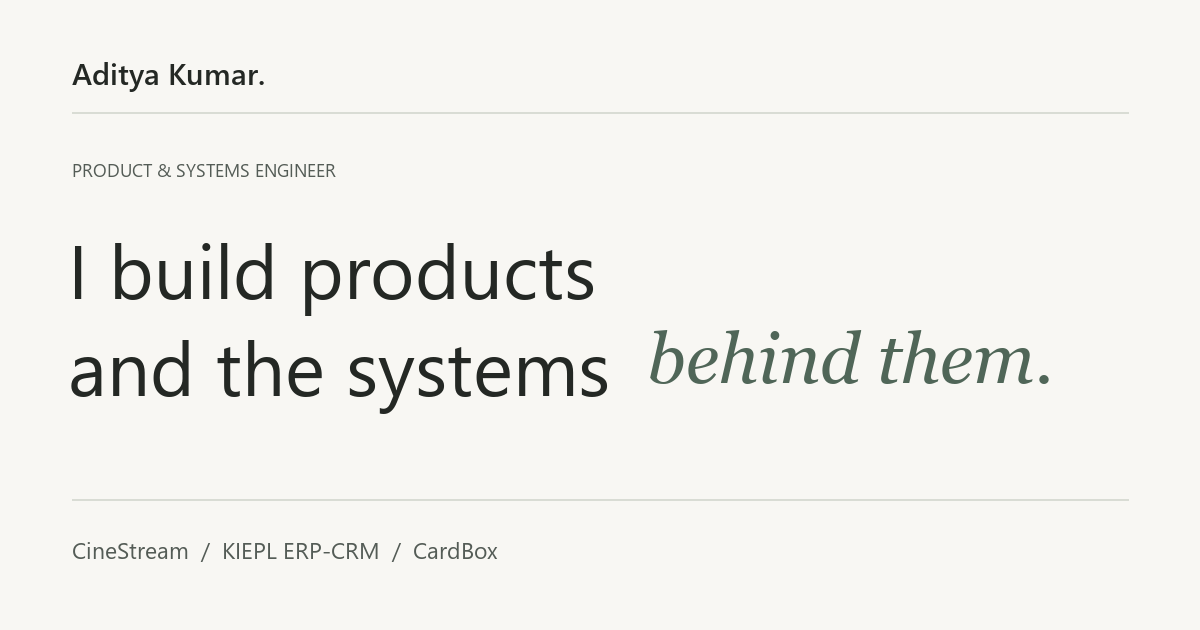
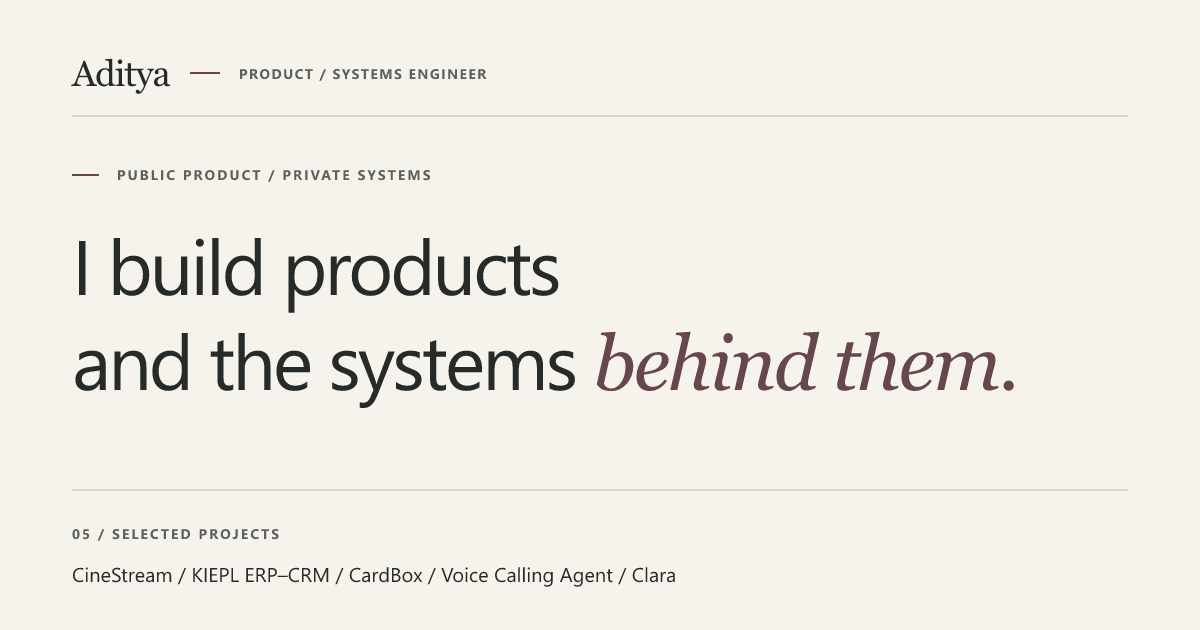
Refresh portfolio identity and sharing card

diff --git a/src/index.css b/src/index.css
@@ -1,15 +1,15 @@
 :root {
   font-family: 'Portfolio Sans', 'Segoe UI', sans-serif;
-  color: #242824;
-  background: #f8f7f3;
+  color: #262b2a;
+  background: #f6f3ec;
   font-synthesis: none;
   text-rendering: optimizeLegibility;
   -webkit-font-smoothing: antialiased;
-  --paper: #f8f7f3;
-  --ink: #242824;
-  --muted: #626761;
-  --line: #d9dcd4;
-  --accent: #365d73;
+  --paper: #f6f3ec;
+  --ink: #262b2a;
+  --muted: #5b615d;
+  --line: #d8d7d1;
+  --accent: #67464e;
   --serif: Georgia, 'Times New Roman', serif;
 }
 @font-face {
@@ -26,20 +26,21 @@ a { color: inherit; text-decoration: none; }
 button, a, summary { -webkit-tap-highlight-color: transparent; }
 a, summary { touch-action: manipulation; }
 a:focus-visible, summary:focus-visible { outline: 2px solid var(--accent); outline-offset: 5px; border-radius: 2px; }
-::selection { background: #dbe5e7; color: var(--ink); }
+::selection { background: var(--accent); color: var(--paper); }
 img { display: block; max-width: 100%; height: auto; }
 p, h1, h2, h3, h4, figure, dl, dd { margin: 0; }
 h1, h2, h3 { font-weight: 500; }
-em { font-family: var(--serif); font-weight: 400; }
 .container { width: min(100% - 96px, 1140px); margin-inline: auto; }
 .arrow { flex-shrink: 0; }
 .skip-link { position: fixed; top: 12px; left: 16px; z-index: 10; padding: 12px 18px; background: var(--ink); color: white; transform: translateY(-160%); }
 .skip-link:focus { transform: translateY(0); }
 .site-header { position: sticky; top: 0; z-index: 5; background: var(--paper); }
-.header-inner { min-height: 86px; display: flex; align-items: center; justify-content: space-between; border-bottom: 1px solid var(--line); }
-.wordmark { font-size: 20px; letter-spacing: -.6px; font-weight: 600; display: inline-flex; align-items: center; min-height: 44px; }
-.wordmark-dot { color: var(--accent); }
-.site-nav { display: flex; gap: 32px; }
+.header-inner { min-height: 86px; display: flex; align-items: center; justify-content: space-between; gap: 20px; border-bottom: 1px solid var(--line); }
+.brand-lockup { display: flex; align-items: center; gap: 14px; min-width: 0; }
+.wordmark { font-family: var(--serif); font-size: 27px; letter-spacing: -1.3px; font-weight: 400; display: inline-flex; align-items: center; min-height: 44px; }
+.brand-rule { width: 24px; height: 1px; background: var(--accent); flex: 0 0 auto; }
+.brand-role { font-size: 9px; line-height: 1.4; letter-spacing: 1.05px; text-transform: uppercase; font-weight: 600; color: var(--muted); white-space: nowrap; }
+.site-nav { display: flex; flex-shrink: 0; gap: 32px; white-space: nowrap; }
 .site-nav a { display: inline-flex; gap: 6px; align-items: center; min-height: 44px; font-size: 13px; }
 .site-nav a:hover, .text-link:hover, .hero-note a:hover, .site-footer a:hover { color: var(--accent); }
 .hero { padding-block: 70px 74px; }
@@ -47,13 +48,13 @@ em { font-family: var(--serif); font-weight: 400; }
 .eyebrow { display: flex; gap: 12px; align-items: center; }
 .small-rule { width: 25px; height: 1px; background: var(--accent); }
 h1 { font-size: clamp(48px, 5.2vw, 74px); letter-spacing: -2.7px; line-height: 1.12; margin-top: 26px; }
-h1 em { color: #506658; letter-spacing: -3px; }
+.hero-signature { margin-left: .12em; font-family: var(--serif); font-style: italic; font-weight: 400; color: var(--accent); letter-spacing: -.055em; white-space: nowrap; }
 .mobile-break { display: none; }
 .hero-bottom { display: grid; grid-template-columns: 1.6fr 1fr; gap: 96px; align-items: end; margin-top: 32px; }
 .hero-description { max-width: 570px; font-size: 17px; line-height: 1.8; color: var(--muted); }
 .hero-actions { display: flex; align-items: center; gap: 28px; flex-wrap: wrap; margin-top: 27px; }
 .button { display: inline-flex; align-items: center; justify-content: center; gap: 24px; min-height: 48px; padding: 0 21px; background: var(--ink); color: var(--paper); border: 1px solid var(--ink); border-radius: 3px; font-size: 13px; font-weight: 500; transition: background .15s; }
-.button:hover { background: #3d4d42; }
+.button:hover { background: var(--accent); border-color: var(--accent); }
 .text-link { display: inline-flex; align-items: center; gap: 9px; min-height: 44px; font-size: 13px; font-weight: 500; }
 .hero-note { padding-left: 25px; border-left: 1px solid var(--line); max-width: 350px; }
 .hero-note .meta-label { font-size: 10px; letter-spacing: .9px; }
@@ -68,10 +69,10 @@ h2 { font-size: 34px; line-height: 1.25; letter-spacing: -1px; }
 .project-topline { display: flex; justify-content: space-between; align-items: center; gap: 16px; margin-bottom: 28px; }
 .project-category { display: flex; gap: 15px; font-size: 11px; font-weight: 500; color: var(--muted); }
 .project-number { color: var(--accent); font-variant-numeric: tabular-nums; }
-.project-status { display: inline-flex; align-items: center; gap: 7px; font-size: 11px; color: #465c4b; }
-.status-dot { width: 5px; height: 5px; border-radius: 50%; background: #5d7962; flex-shrink: 0; }
+.project-status { display: inline-flex; align-items: center; gap: 7px; font-size: 11px; color: var(--ink); }
+.status-dot { width: 5px; height: 5px; border-radius: 50%; background: var(--ink); flex-shrink: 0; }
 .status-development { color: var(--muted); }
-.status-development .status-dot { background: transparent; border: 1px solid #797d76; width: 6px; height: 6px; }
+.status-development .status-dot { background: transparent; border: 1px solid var(--muted); width: 6px; height: 6px; }
 .project-grid { display: grid; grid-template-columns: minmax(0, 1.6fr) minmax(0, 1fr); gap: 96px; align-items: center; }
 .project h3 { font-size: 43px; letter-spacing: -1.7px; line-height: 1.2; }
 .project-kiepl h3 { letter-spacing: -.5px; word-spacing: .18em; }
@@ -104,17 +105,16 @@ details[open] .disclosure-icon::after { transform: rotate(0); }
 .engineering-content { display: grid; grid-template-columns: repeat(3, minmax(0, 1fr)); gap: 32px; padding: 18px 0 30px; }
 .engineering-content h4 { font-size: 12px; font-weight: 600; margin-bottom: 10px; }
 .engineering-content p { font-size: 13px; line-height: 1.85; color: var(--muted); }
-.about-section { margin-top: 75px; padding-block: 76px; background: #efefe8; border-block: 1px solid #e3e4dc; }
+.about-section { margin-top: 75px; padding-block: 76px; background: var(--ink); color: var(--paper); border-block: 1px solid var(--ink); }
+.about-section .eyebrow { color: var(--paper); opacity: .8; }
 .about-grid { display: grid; grid-template-columns: 1fr 1.25fr; gap: 100px; }
 .about-heading h2 { margin-top: 20px; font-size: 36px; line-height: 1.35; }
-.about-heading h2 em { color: #506658; }
-.location { font-size: 12px; color: var(--muted); margin-top: 25px; }
-.about-copy > p { font-size: 14px; line-height: 1.85; color: var(--muted); margin-bottom: 15px; }
-.about-copy > .about-lead { color: var(--ink); font-size: 21px; line-height: 1.5; letter-spacing: -.4px; margin-bottom: 20px; }
+.location { font-size: 12px; color: var(--paper); opacity: .8; margin-top: 25px; }
+.about-copy > p { font-size: 14px; line-height: 1.85; color: var(--paper); opacity: .82; margin-bottom: 15px; }
+.about-copy > .about-lead { color: var(--paper); opacity: 1; font-size: 21px; line-height: 1.5; letter-spacing: -.4px; margin-bottom: 20px; }
 .contact-section { padding-block: 74px 68px; }
 .contact-grid { display: grid; grid-template-columns: 1.25fr 1fr; gap: 90px; margin-top: 23px; align-items: end; }
 .contact-grid h2 { font-size: 40px; line-height: 1.3; letter-spacing: -1.3px; }
-.contact-grid h2 em { color: #506658; }
 .contact-copy > p { color: var(--muted); font-size: 13px; line-height: 1.7; }
 .contact-email { display: flex; align-items: center; gap: 14px; min-height: 48px; font-size: 17px; letter-spacing: -.3px; margin-top: 9px; overflow-wrap: anywhere; }
 .contact-email:hover { color: var(--accent); }
@@ -136,15 +136,20 @@ details[open] .disclosure-icon::after { transform: rotate(0); }
   html { scroll-padding-top: 90px; }
   .container { width: calc(100% - 44px); }
   .header-inner { min-height: 72px; }
-  .wordmark { font-size: 18px; }
+  .wordmark { font-size: 24px; }
+  .brand-lockup { gap: 10px; }
+  .brand-rule { width: 17px; }
+  .brand-role { font-size: 9px; letter-spacing: .75px; }
   .site-nav { gap: 20px; }
   .site-nav a { font-size: 12px; }
   .hero { padding-block: 48px 48px; }
   h1 { font-size: clamp(44px, 7.8vw, 60px); letter-spacing: -1.8px; margin-top: 22px; }
-  h1 em { letter-spacing: -2px; }
+  .hero-signature { margin-left: 0; }
   .hero-bottom { grid-template-columns: 1fr; gap: 0; margin-top: 26px; }
   .hero-description { font-size: 16px; max-width: 540px; }
-  .hero-note { display: none; }
+  .hero-note { max-width: none; border-left: 0; border-top: 1px solid var(--line); padding: 18px 0 0; margin-top: 30px; }
+  .hero-note p { font-size: 13px; margin-top: 7px; }
+  .hero-note a { display: none; }
   .section-heading { padding-block: 28px; }
   .section-heading h2 { font-size: 29px; }
   .section-caption { font-size: 11px; }
@@ -167,19 +172,25 @@ details[open] .disclosure-icon::after { transform: rotate(0); }
   .contact-email { font-size: 18px; }
 }
 @media (max-width: 560px) {
-  .wordmark { font-size: 16px; letter-spacing: -.5px; }
+  .header-inner { min-height: 78px; gap: 12px; }
+  .brand-lockup { display: block; }
+  .wordmark { font-size: 22px; letter-spacing: -1px; }
+  .brand-rule { display: none; }
+  .brand-role { display: block; margin-top: -3px; font-size: 9px; line-height: 1.2; letter-spacing: .65px; }
+  .brand-role span { display: block; }
   .site-nav { gap: 16px; }
   .site-nav a { font-size: 11px; }
   .site-nav .arrow { display: none; }
   .hero .eyebrow { font-size: 9px; letter-spacing: 1.2px; }
   .small-rule { width: 20px; }
   h1 { font-size: clamp(39px, 10.7vw, 57px); line-height: 1.15; letter-spacing: -1.5px; }
-  h1 em { letter-spacing: -1.8px; }
+  .hero-signature { letter-spacing: -.04em; }
   .mobile-break { display: inline; }
   .hero-description { font-size: 15px; line-height: 1.8; }
   .hero-actions { gap: 22px; margin-top: 23px; }
   .button { padding-inline: 16px; gap: 18px; font-size: 12px; }
   .hero-actions .text-link { font-size: 12px; }
+  .hero-note { margin-top: 27px; padding-top: 16px; }
   .section-heading { align-items: start; }
   .section-heading h2 { font-size: 27px; letter-spacing: -.9px; margin-top: 10px; }
   .eyebrow { font-size: 10px; }
@@ -212,7 +223,8 @@ details[open] .disclosure-icon::after { transform: rotate(0); }
   .project-kiepl h3 { font-size: 32px; }
   .container { width: calc(100% - 36px); }
   .site-nav { gap: 12px; }
-  .wordmark { font-size: 15px; }
+  .wordmark { font-size: 20px; }
+  .brand-role { font-size: 8px; }
   .hero-actions { gap: 17px; }
   .hero-actions .button { gap: 10px; padding-inline: 12px; }
   .contact-email { font-size: 14px; }
@@ -225,7 +237,8 @@ details[open] .disclosure-icon::after { transform: rotate(0); }
   .site-header, .hero-actions, .hero-note, .site-footer, .skip-link { display: none; }
   .container { width: 100%; }
   .hero, .about-section, .contact-section { padding-block: 25px; }
-  .about-section { background: none; margin-top: 30px; }
+  .about-section { background: none; color: var(--ink); border-block: 1px solid var(--line); margin-top: 30px; }
+  .about-section .eyebrow, .about-section .location, .about-copy > p, .about-copy > .about-lead { color: var(--ink); opacity: 1; }
   .project { break-inside: avoid; }
   .project-grid, .about-grid, .contact-grid { gap: 30px; }
   h1 { font-size: 48px; }

diff --git a/src/AdityaPortfolio.jsx b/src/AdityaPortfolio.jsx
@@ -10,9 +10,11 @@ export default function AdityaPortfolio() {
       <a className="skip-link" href="#main">Skip to content</a>
       <header className="site-header">
         <div className="container header-inner">
-          <a className="wordmark" href="#top" aria-label="Aditya, back to top">
-            Aditya<span className="wordmark-dot" aria-hidden="true">.</span>
-          </a>
+          <div className="brand-lockup">
+            <a className="wordmark" href="#top" aria-label="Aditya, back to top">Aditya</a>
+            <span className="brand-rule" aria-hidden="true" />
+            <span className="brand-role"><span>Product / Systems</span>{' '}<span>Engineer</span></span>
+          </div>
           <nav className="site-nav" aria-label="Primary navigation">
             <a href="#work">Work</a>
             <a href="#about">About</a>
@@ -23,8 +25,8 @@ export default function AdityaPortfolio() {
 
       <main id="main">
         <section className="hero container" id="top" aria-labelledby="hero-title">
-          <p className="eyebrow"><span className="small-rule" aria-hidden="true" /> Product &amp; Systems Engineer</p>
-          <h1 id="hero-title">I build products<br />and the systems<br className="mobile-break" /> <em>behind them.</em></h1>
+          <p className="eyebrow"><span className="small-rule" aria-hidden="true" /> Public product / private systems</p>
+          <h1 id="hero-title">I build products<br />and the systems{' '}<br className="mobile-break" /><em className="hero-signature">behind them.</em></h1>
           <div className="hero-bottom">
             <div className="hero-copy">
               <p className="hero-description">
@@ -37,8 +39,8 @@ export default function AdityaPortfolio() {
               </div>
             </div>
             <div className="hero-note">
-              <span className="meta-label">Independent work. Real responsibility.</span>
-              <p>My own open-source product.<br />Systems built for clients.</p>
+              <span className="meta-label">Published / live</span>
+              <p>CineStream — on Google Play.<br />KIEPL — live for internal operations.</p>
               <a href="#about">A little about how I work <Arrow /></a>
             </div>
           </div>
@@ -61,7 +63,7 @@ export default function AdityaPortfolio() {
           <div className="container about-grid">
             <div className="about-heading">
               <p className="eyebrow">02 / How I work</p>
-              <h2 id="about-title">The whole product.<br /><em>The small details.</em></h2>
+              <h2 id="about-title">The whole product.<br />The small details.</h2>
               <p className="location">Based in Bhagalpur, India.</p>
             </div>
             <div className="about-copy">
@@ -83,7 +85,7 @@ export default function AdityaPortfolio() {
         <section className="contact-section container" id="contact" aria-labelledby="contact-title">
           <p className="eyebrow">03 / Let’s talk</p>
           <div className="contact-grid">
-            <h2 id="contact-title">Have a product or system that needs <em>careful engineering?</em></h2>
+            <h2 id="contact-title">Have a product or system that needs careful engineering?</h2>
             <div className="contact-copy">
               <p>Available for focused freelance and contract work.</p>
               <a className="contact-email" href={`mailto:${email}`}>{email} <Arrow /></a>
@@ -97,7 +99,7 @@ export default function AdityaPortfolio() {
       </main>
 
       <footer className="site-footer container">
-        <span>© {new Date().getFullYear()} Aditya Kumar</span>
+        <span>© {new Date().getFullYear()} Aditya</span>
         <a href="#top">Back to top <Arrow direction="up" /></a>
       </footer>
     </>

diff --git a/index.html b/index.html
@@ -5,22 +5,22 @@
     <link rel="icon" type="image/svg+xml" href="/favicon.svg" />
     <meta name="viewport" content="width=device-width, initial-scale=1.0" />
     <link rel="preload" href="/fonts/manrope-latin.woff2" as="font" type="font/woff2" crossorigin />
-    <meta name="theme-color" content="#f8f7f3" />
-    <meta name="description" content="Aditya Kumar — Product & Systems Engineer. Android applications, business platforms, and practical AI workflows. Selected work: CineStream, KIEPL ERP–CRM, CardBox, an AI voice calling agent for WorkPilot, and Clara." />
+    <meta name="theme-color" content="#f6f3ec" />
+    <meta name="description" content="Aditya — Product & Systems Engineer. Android applications, business platforms, and practical AI workflows. Selected work: CineStream, KIEPL ERP–CRM, CardBox, an AI voice calling agent for WorkPilot, and Clara." />
     <link rel="canonical" href="https://exor-portfolio.netlify.app/" />
     <meta property="og:type" content="website" />
-    <meta property="og:title" content="Aditya Kumar — Product & Systems Engineer" />
+    <meta property="og:title" content="Aditya — Product & Systems Engineer" />
     <meta property="og:description" content="I build products and the systems behind them. Explore CineStream, KIEPL ERP–CRM, CardBox, the WorkPilot voice agent, and Clara." />
     <meta property="og:url" content="https://exor-portfolio.netlify.app/" />
     <meta property="og:image" content="https://exor-portfolio.netlify.app/social-preview.png" />
     <meta property="og:image:width" content="1200" />
     <meta property="og:image:height" content="630" />
-    <meta property="og:image:alt" content="Aditya Kumar. I build products and the systems behind them." />
+    <meta property="og:image:alt" content="Aditya, Product and Systems Engineer. I build products and the systems behind them. Five selected projects." />
     <meta name="twitter:card" content="summary_large_image" />
-    <meta name="twitter:title" content="Aditya Kumar — Product & Systems Engineer" />
+    <meta name="twitter:title" content="Aditya — Product & Systems Engineer" />
     <meta name="twitter:description" content="Android applications, business platforms, and practical AI workflows." />
     <meta name="twitter:image" content="https://exor-portfolio.netlify.app/social-preview.png" />
-    <title>Aditya Kumar — Product & Systems Engineer</title>
+    <title>Aditya — Product & Systems Engineer</title>
   </head>
   <body>
     <div id="root"></div>

diff --git a/README.md b/README.md
@@ -1,4 +1,4 @@
-# Aditya Kumar — Portfolio
+# Aditya — Portfolio
 
 **Product & Systems Engineer**
 
@@ -32,7 +32,7 @@ This site has no server component or client-side route paths. Its navigation use
 - Page sections and personal information: `src/AdityaPortfolio.jsx`.
 - Reusable case studies and links: `src/components/`.
 - Responsive layout and visual tokens: `src/index.css`.
-- Social sharing card: `public/social-preview.png`.
+- Social sharing card: `public/social-preview.png`, with editable SVG at `public/social-preview.svg`.
 
 The site uses a self-hosted Manrope Latin font under the SIL Open Font License (`public/fonts/OFL.txt`) and a system serif. It has no analytics, external runtime fonts, or backend. Native HTML disclosures keep engineering details accessible without extra JavaScript state. Reduced-motion preferences are respected.
 
